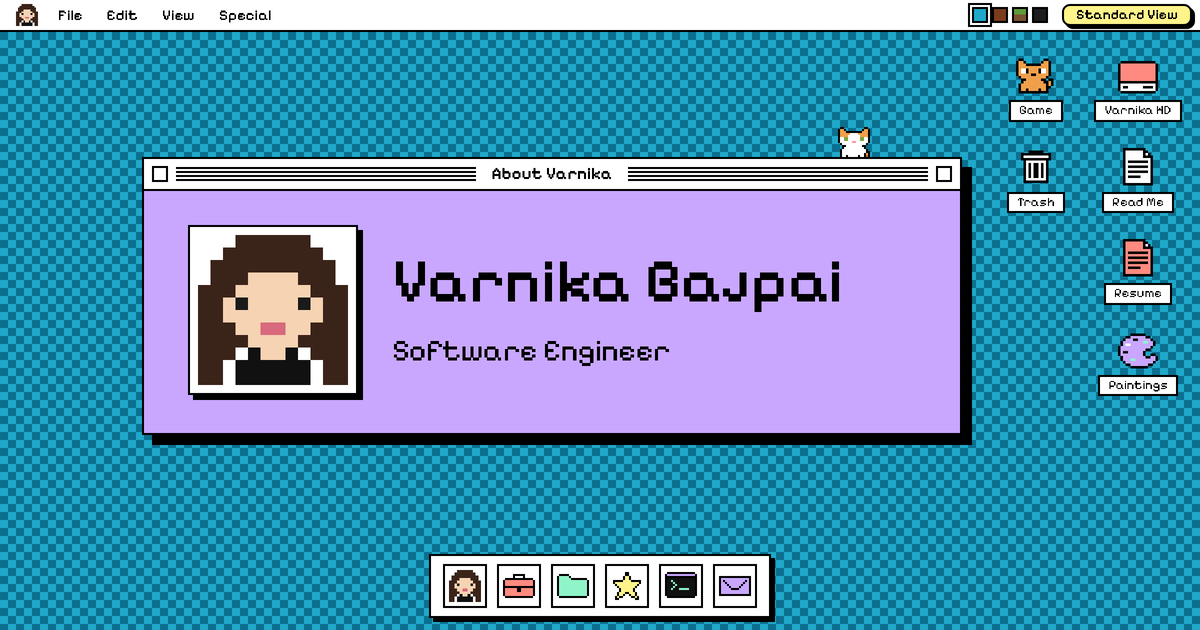
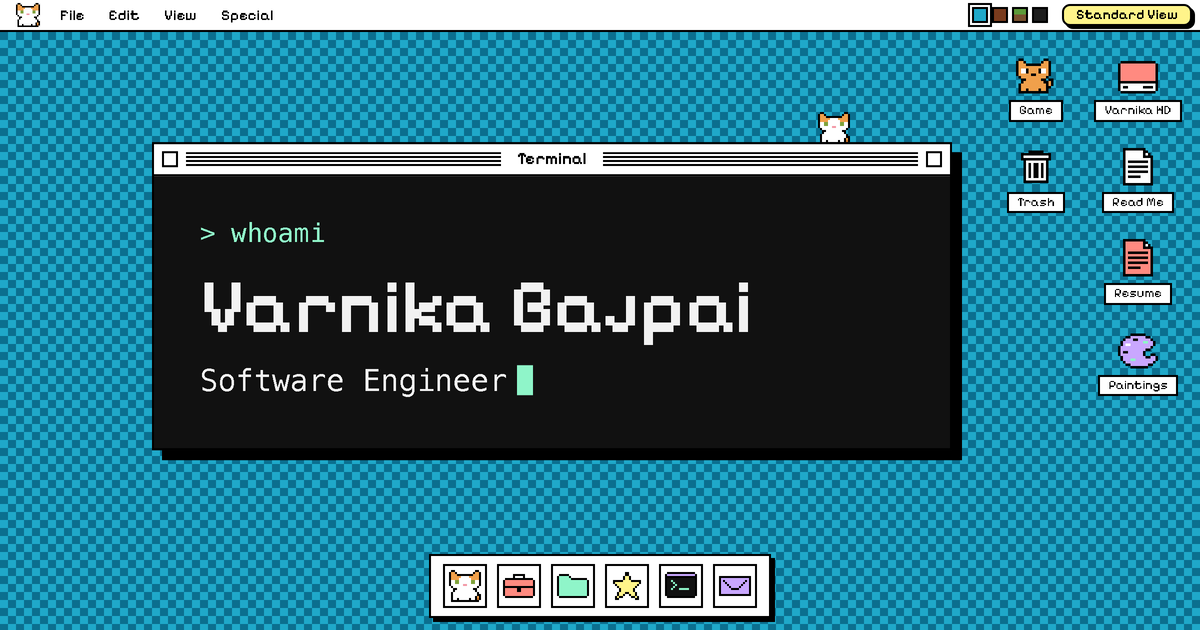
Link preview: the terminal answers whoami

diff --git a/index.html b/index.html
@@ -13,7 +13,7 @@
     <meta property="og:image" content="https://varnikabajpai.dev/og.png" />
     <meta property="og:image:width" content="1200" />
     <meta property="og:image:height" content="630" />
-    <meta property="og:image:alt" content="Varnika Bajpai, Software Engineer, in a window on a retro Mac desktop" />
+    <meta property="og:image:alt" content="A terminal window on a retro Mac desktop: whoami, Varnika Bajpai, Software Engineer" />
     <meta name="twitter:card" content="summary_large_image" />
     <meta name="twitter:image" content="https://varnikabajpai.dev/og.png" />
     <title>Varnika Bajpai</title>

diff --git a/standard/index.html b/standard/index.html
@@ -13,7 +13,7 @@
     <meta property="og:image" content="https://varnikabajpai.dev/og.png" />
     <meta property="og:image:width" content="1200" />
     <meta property="og:image:height" content="630" />
-    <meta property="og:image:alt" content="Varnika Bajpai, Software Engineer, in a window on a retro Mac desktop" />
+    <meta property="og:image:alt" content="A terminal window on a retro Mac desktop: whoami, Varnika Bajpai, Software Engineer" />
     <meta name="twitter:card" content="summary_large_image" />
     <meta name="twitter:image" content="https://varnikabajpai.dev/og.png" />
     <title>Varnika Bajpai</title>

diff --git a/README.md b/README.md
@@ -1,6 +1,6 @@
 # Portfolio
 
-![Varnika Bajpai, Software Engineer, in a window on a retro Mac desktop](public/og.png)
+![A terminal window on a retro Mac desktop: whoami, Varnika Bajpai, Software Engineer](public/og.png)
 
 Varnika Bajpai's profile site, built as a retro desktop you can explore: windows you can drag, a dock, a terminal, and four colour palettes. A regular scrolling version lives at `/standard/`.
 
